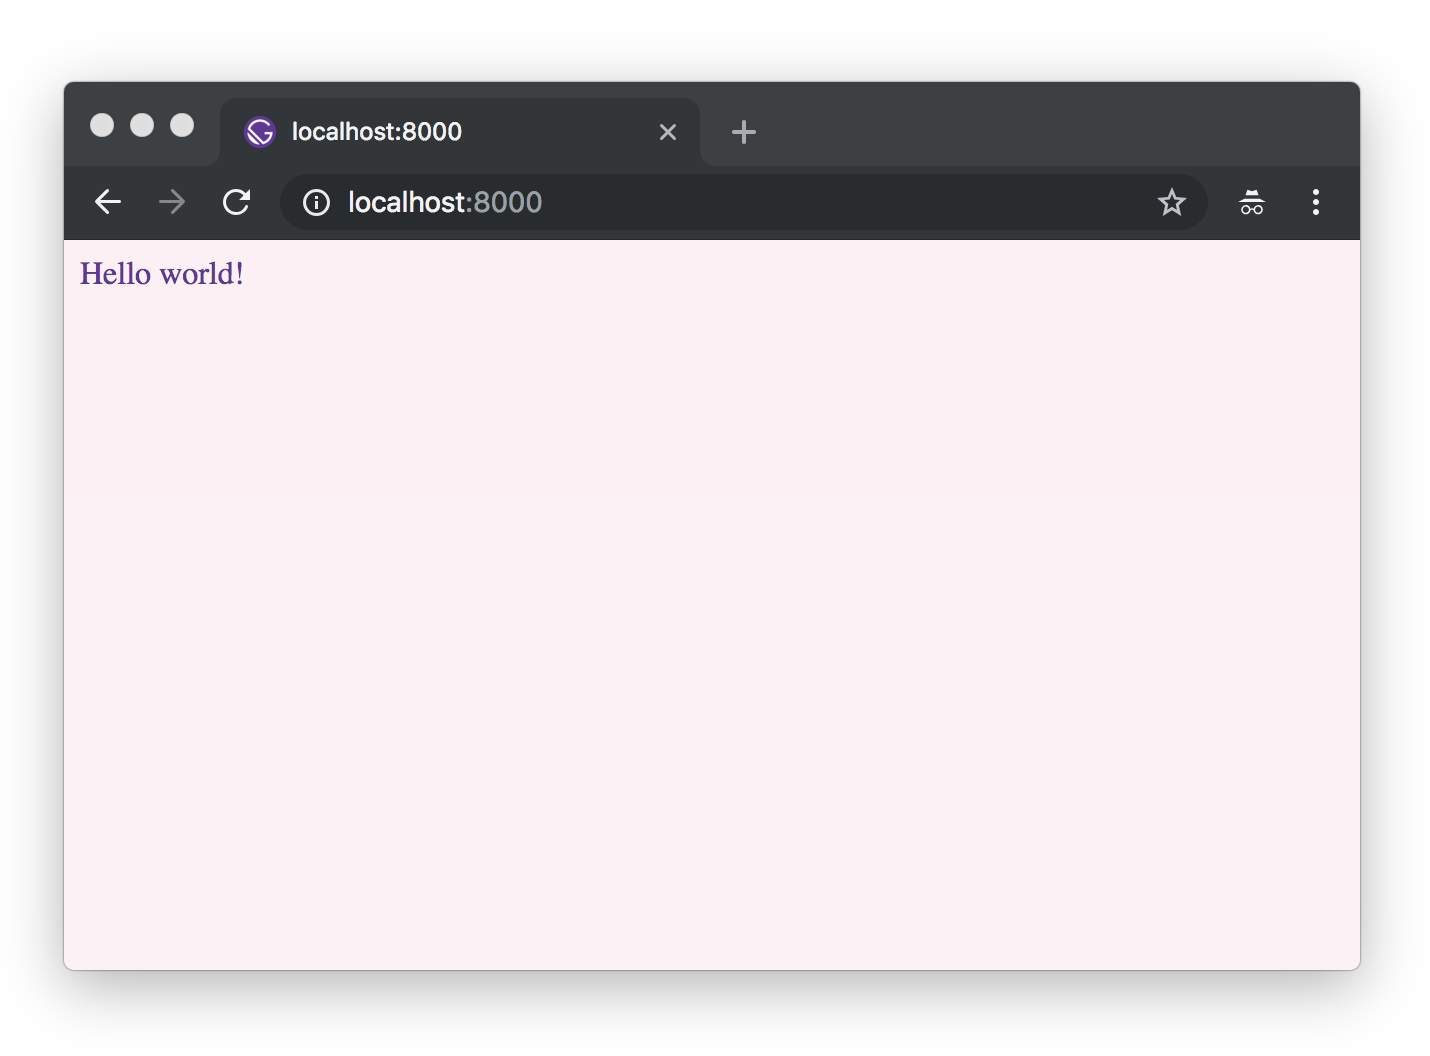
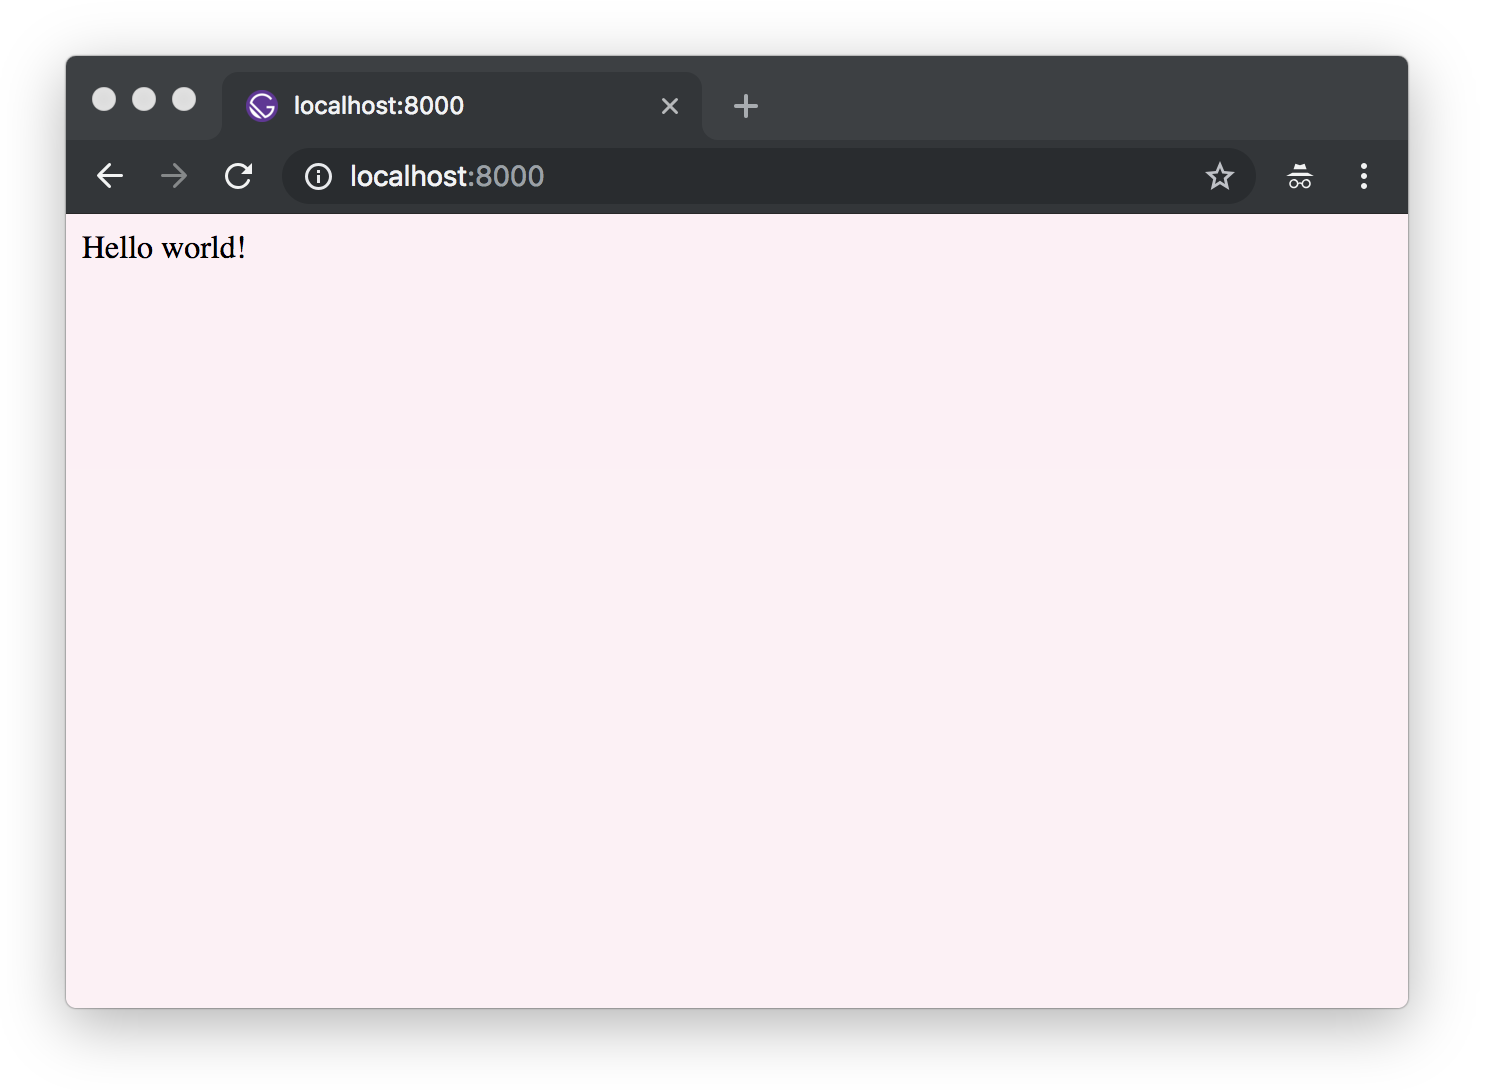
wip: update screenshots for part two, consistent flow from global to css modules

Changed region(s): [[0.0308, 0.0312, 0.9538, 0.9375]]

diff --git a/docs/tutorial/part-two/index.md b/docs/tutorial/part-two/index.md
@@ -78,7 +78,6 @@ You should now have a structure like this:
 ```css:title=src/styles/global.css
 html {
   background-color: lavenderblush;
-  color: rebeccapurple;
 }
 ```
 
@@ -124,7 +123,7 @@ import "./src/styles/global.css"
 gatsby develop
 ```
 
-If you take a look at your project in the browser, you should see your global css styles applied to the "hello world" starter:
+If you take a look at your project in the browser, you should see a lavender background applied to the "hello world" starter:
 
 ![global-css](global-css.png)
 
@@ -194,7 +193,7 @@ export default () => (
 
 Now, if you visit `http://localhost:8000/about-css-modules/`, your page should look like something like this:
 
-![css-modules-1](css-modules-1.png)
+![css-modules-basic](css-modules-basic.png)
 
 #### ✋ Style a component using CSS Modules
 
@@ -308,7 +307,7 @@ export default () => (
 
 The finished page should now look like:
 
-![css-modules-final](css-modules-final.png)
+![css-modules-userlist](css-modules-userlist.png)
 
 ### CSS-in-JS
 

diff --git a/docs/tutorial/part-three/index.md b/docs/tutorial/part-three/index.md
@@ -182,8 +182,7 @@ export default () => (
 
 ![with-layout2](with-layout2.png)
 
-Sweet, the layout is working! Now, your text is centered and constrained to
-a column 650 pixels wide, as you specified.
+Sweet, the layout is working! The content of your index page is still centered.
 
 But try navigating to `/about/`, or `/contact/`. The content on those pages still won't be centered.
 
